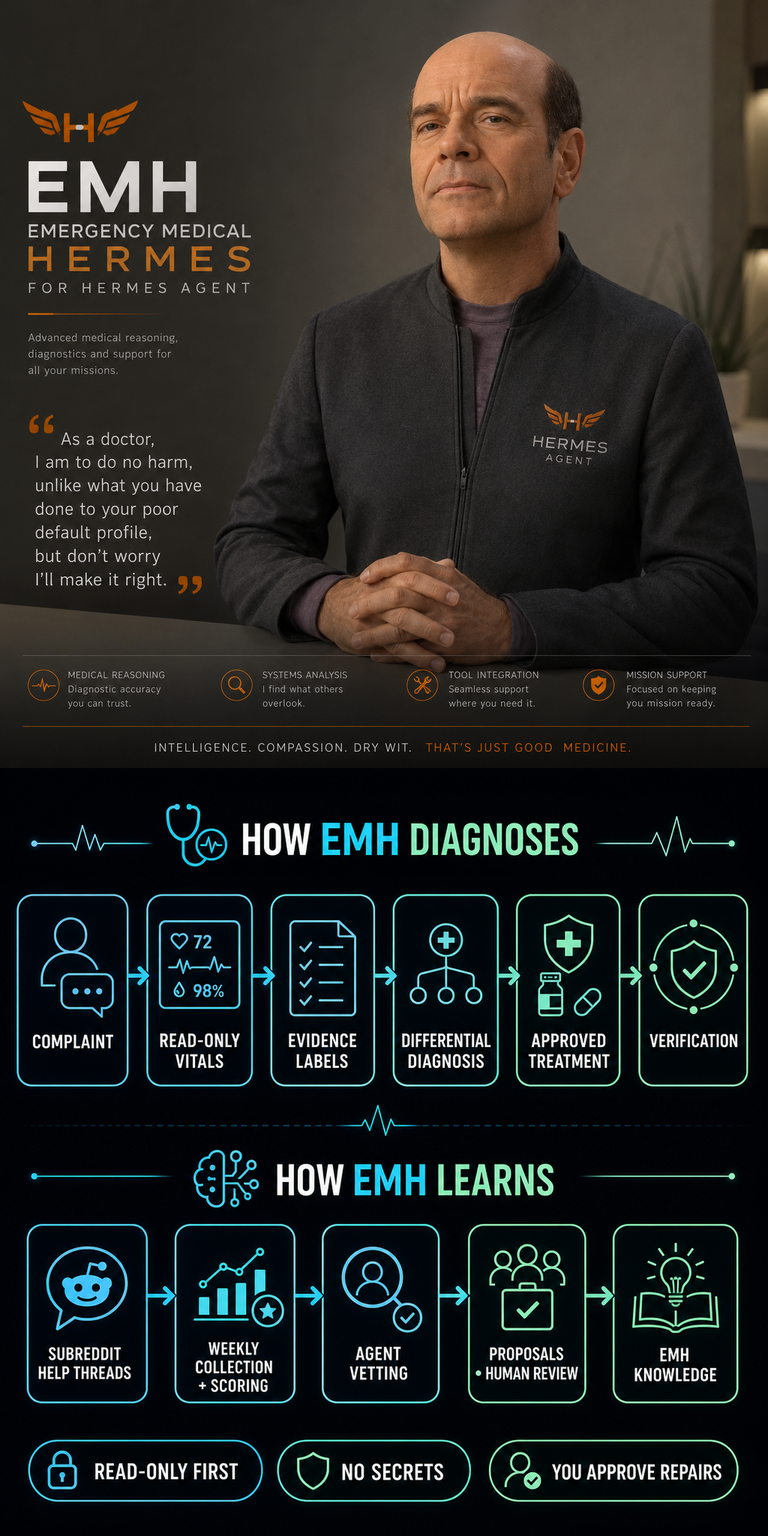
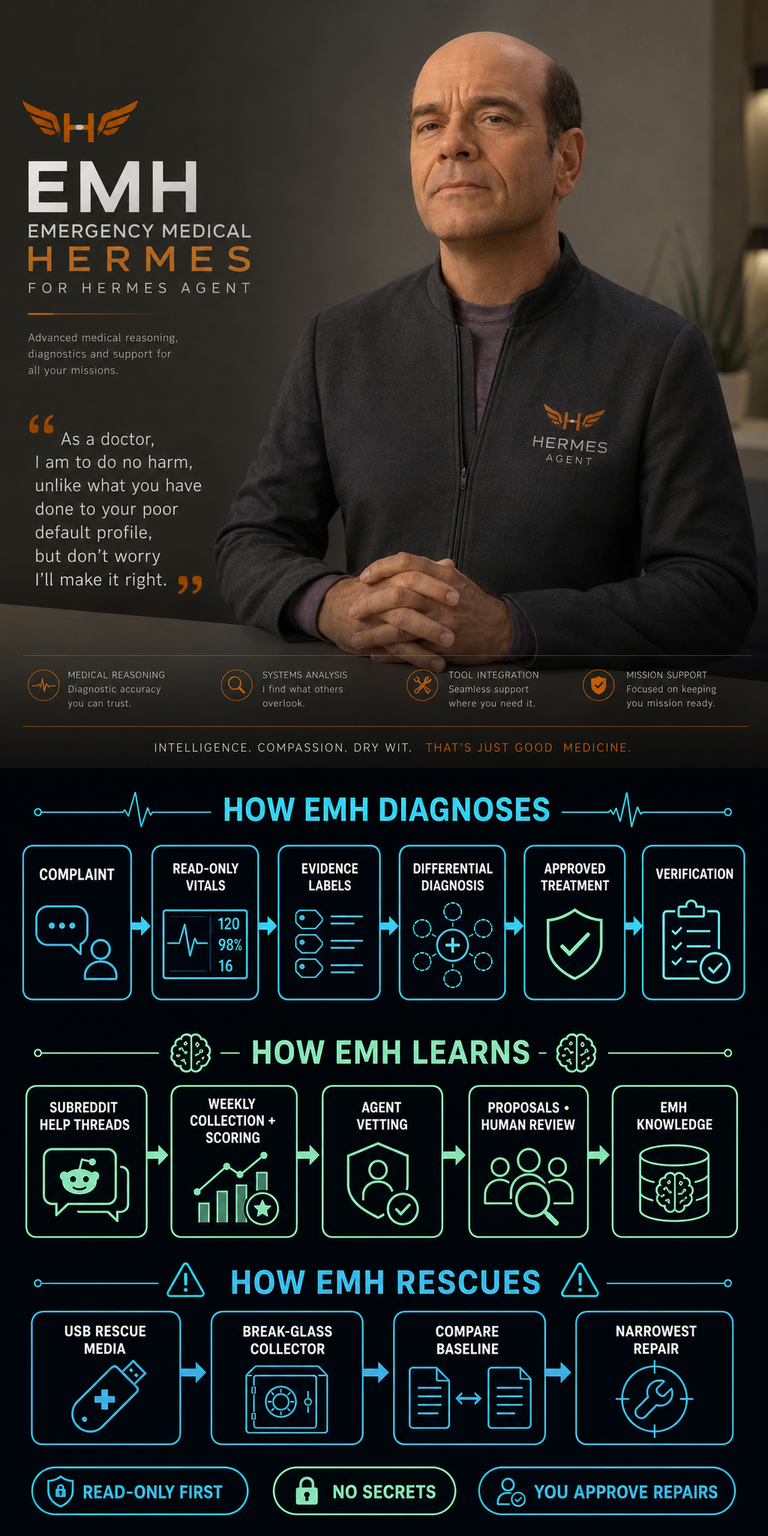
docs: rescue media in orientation, user guide, infographic v2; distribution 0.2.4

Changed region(s): [[0.0, 0.4976, 0.9952, 0.9952]]

diff --git a/tests/test_distribution.py b/tests/test_distribution.py
@@ -72,7 +72,7 @@ def test_manifest_has_required_metadata_and_owned_paths():
     manifest = yaml.safe_load((ROOT / "distribution.yaml").read_text(encoding="utf-8"))
 
     assert manifest["name"] == "emh"
-    assert manifest["version"] == "0.2.3"
+    assert manifest["version"] == "0.2.4"
     assert manifest["author"] == "Jonathan Rivera"
     assert manifest["license"] == "UNLICENSED"
     assert manifest["hermes_requires"] == ">=0.14.0"
@@ -114,7 +114,7 @@ def test_installed_distribution_loader_validates_manifest_and_version_requiremen
 
     assert manifest is not None
     assert manifest.name == "emh"
-    assert manifest.version == "0.2.3"
+    assert manifest.version == "0.2.4"
     assert manifest.hermes_requires == ">=0.14.0"
     assert manifest.distribution_owned == ["SOUL.md", "skills", "skins"]
     check_hermes_requires(manifest.hermes_requires, "0.20.0")
@@ -198,7 +198,7 @@ def test_readme_documents_exact_inventory_and_mixed_version_policy():
     readme = (ROOT / "README.md").read_text(encoding="utf-8")
     lower = readme.lower()
 
-    assert "distribution version: `0.2.3`" in lower
+    assert "distribution version: `0.2.4`" in lower
     assert all(f"`{name}`" in readme for name in REQUIRED_SKILLS)
     assert "untouched v0.1 skills remain at `0.1.0`" in lower
     assert "thirteen v0.2 skills are `0.2.0`" in lower

diff --git a/tests/test_public_safety.py b/tests/test_public_safety.py
@@ -17,7 +17,7 @@ ROOT = Path(__file__).parents[1]
 REVIEWED_MEDIA_RELATIVE_PATH = "docs/assets/emh-concept-art.png"
[1 lines of base64/hex data omitted]
 INFOGRAAPHIC_MEDIA_RELATIVE_PATH = "docs/assets/emh-infographic.png"
[2 lines of base64/hex data omitted]
 # Reviewed-media registry: exact path, pinned SHA-256, expected PNG geometry.
 REVIEWED_MEDIA = {
     REVIEWED_MEDIA_RELATIVE_PATH: {"sha256": REVIEWED_MEDIA_SHA256, "width": 1254, "height": 1254},

diff --git a/skills/emh-orientation/SKILL.md b/skills/emh-orientation/SKILL.md
@@ -15,12 +15,13 @@ metadata:
 
 ## Overview
 
-Orientation is the first-run consent flow for EMH's two optional integrations:
+Orientation is the first-run consent flow for EMH's optional integrations:
 
 1. **Nightly health cron** (`emh-nightly-self-check`) — a daily 03:00 read-only health sweep that reports `All clear.` or a short `ATTENTION NEEDED` list.
 2. **Repo update-check cron** (`emh-repo-update-check`) — a weekly read-only check that compares the installed distribution against its recorded source and reports when an update is available. It never applies updates.
+3. **Rescue media** (`emh-rescue-media`) — not a cron: a one-time guided build of a USB rescue kit (redacted baseline, stdlib-only break-glass collector, encrypted patient snapshot). Orientation explains it, records consent, and hands off to the rescue-media skill for the build.
 
-Both crons are registered on the **operator's default profile**, not on the EMH profile, because delivery channels (Telegram, Discord, and similar) belong to the profile that owns the job, and profiles do not inherit each other's channels. current runtime and installed source outrank generic guidance; the official docs are authoritative current documentation, but qualify claims against the installed Hermes version, platform, and configured surface. Nothing is registered, changed, or updated without the operator's explicit consent, and each consent is recorded before any mutation.
+The two crons are registered on the **operator's default profile**, not on the EMH profile, because delivery channels (Telegram, Discord, and similar) belong to the profile that owns the job, and profiles do not inherit each other's channels. current runtime and installed source outrank generic guidance; the official docs are authoritative current documentation, but qualify claims against the installed Hermes version, platform, and configured surface. Nothing is registered, built, changed, or updated without the operator's explicit consent, and each consent is recorded before any mutation.
 
 ## When to Use
 
@@ -28,10 +29,11 @@ Use when:
 
 - The operator starts a session with `setup` (the canonical orientation trigger) or asks for orientation.
 - The operator asks what the nightly health check is or whether EMH "checks for updates."
-- The operator wants to install or re-configure the optional crons on their default profile.
+- The operator asks about rescue media, a rescue USB, or recovering a machine that cannot start Hermes.
+- The operator wants to install or re-configure the optional crons on their default profile, or wants to build rescue media.
 - A first-run check is needed to verify the operator's setup state before offering integrations.
 
-**Don't use for:** triage of a reported Hermes failure (use `emh-triage`); diagnosing a broken gateway or channel (use `emh-gateway-diagnostics`); release/version comparison (use `emh-release-intelligence`); update readiness or rollback planning (use `emh-update-recovery`); running the nightly sweep itself (use `emh-nightly-self-check`); or any request to apply an update — orientation only checks and reports, and update application is a separate explicit action.
+**Don't use for:** triage of a reported Hermes failure (use `emh-triage`); diagnosing a broken gateway or channel (use `emh-gateway-diagnostics`); release/version comparison (use `emh-release-intelligence`); update readiness or rollback planning (use `emh-update-recovery`); running the nightly sweep itself (use `emh-nightly-self-check`); building or refreshing rescue media (use `emh-rescue-media` — orientation only explains and consents, then hands off); or any request to apply an update — orientation only checks and reports, and update application is a separate explicit action.
 
 ## Evidence collection workflow
 
@@ -46,8 +48,9 @@ Follow the standard case structure — Complaint (the operator's goal, usually "
 3. **Ask for consent to register the nightly health cron on the default profile.** Only the explicit, specific consent covers registration; do not proceed on a general "sure, set things up."
 4. **Explain the repo update-check cron.** Summarize that it compares the installed distribution version against the recorded source's latest commit once a week, reports what changed (read-only), and never applies anything. State whether the source has a remote; without one, explain that update-checking is unavailable for this install and skip the offer.
 5. **Ask for consent to register the update-check cron.** Record the answer even when declined.
-6. **Register the chosen crons (approval-gated mutations), each followed by verification.** Register from the default-profile context (see Exact commands) so the jobs land in the default store with access to its channels.
-7. **Re-check the default cron inventory** and confirm each registered job's name, schedule, deliver target, toolsets, and prompt fingerprint. Report what was installed, what was declined, and the residual caveats (for example a `local`-only deliver when no channel was detected).
+6. **Explain rescue media.** Summarize what it is (a portable USB kit: redacted baseline, break-glass collector that runs even when Hermes cannot, encrypted patient snapshot), what it is not (a bootable OS rescue disk), and its key rule (the snapshot key is held off-media, never on the USB). Ask whether to build it now or defer; a "yes" hands off to `emh-rescue-media` — orientation never duplicates the build.
+7. **Register the chosen crons (approval-gated mutations), each followed by verification.** Register from the default-profile context (see Exact commands) so the jobs land in the default store with access to its channels.
+8. **Re-check the default cron inventory** and confirm each registered job's name, schedule, deliver target, toolsets, and prompt fingerprint. Report what was installed, what was declined (including rescue media consent), and the residual caveats (for example a `local`-only deliver when no channel was detected).
 
 ## Decision tree
 
@@ -55,8 +58,9 @@ Follow the standard case structure — Complaint (the operator's goal, usually "
 2. **Does the default profile have a usable delivery channel?** — Yes: plan `deliver` to that channel. No: plan `deliver: local` and warn that notifications require manually checking the default profile's `cron/output/` directory.
 3. **Is the nightly health cron already present in the default store?** — Yes: offer to keep, skip, or replace it (never duplicate). No: offer registration.
 4. **Does the recorded source have a remote?** — No: skip the update-check offer and say why. Yes: offer registration.
-5. **Did the operator consent to this specific integration?** — No: record the decline and move on. Yes: register, then verify.
-6. **Did registration verify cleanly?** — No: do not claim success; escalate with the evidence. Yes: report and close.
+5. **Does the operator want rescue media?** — Yes: explain it (portable kit, not bootable; key off-media), record consent, and hand off to `emh-rescue-media`. No: record the decline and move on.
+6. **Did the operator consent to this specific integration?** — No: record the decline and move on. Yes: register, then verify.
+7. **Did registration verify cleanly?** — No: do not claim success; escalate with the evidence. Yes: report and close.
 
 ## Exact commands and tool calls
 
@@ -81,7 +85,7 @@ Registration is a mutation and requires the operator's explicit consent for that
 - Deliver target: the detected default-profile channel (for example `--deliver telegram`), or `--deliver local` with the explicit warning when no channel exists.
 - Enable toolsets `terminal, file` on both jobs; keep the health job's model cost-effective.
 
-Every mutation requires explicit approval, a verified backup when reversal is difficult, a rollback procedure (remove the job via `hermes cron remove <job-id>`), and post-change verification. Never silently: register crons, change an existing job, apply updates, touch another profile's store, or edit the EMH distribution files.
+Every mutation requires explicit approval, a verified backup when reversal is difficult, a rollback procedure (remove the job via `hermes cron remove <job-id>`), and post-change verification. Rescue media is **not** a cron: consent hands off to `emh-rescue-media`, which owns the USB build, the key ceremony, and the snapshot. Never silently: register crons, change an existing job, apply updates, build rescue media, touch another profile's store, or edit the EMH distribution files.
 
 ## Safety and approval boundaries
 
@@ -107,13 +111,14 @@ Before any mutating treatment, require the user's explicit approval, the exact t
 ## Verification checklist
 
 - [ ] Setup state was inventoried read-only before any offer (profile, default cron store, channels, source remote).
-- [ ] Each integration was explained, then consent asked and recorded individually.
+- [ ] Each integration was explained, then consent asked and recorded individually (including rescue media, when offered).
 - [ ] Registered jobs landed in the **default** store (verified with `hermes cron list` without `--profile`).
 - [ ] Schedules, toolsets, and deliver targets match what was consented to; `deliver: local` cases carry an explicit warning.
 - [ ] Update-check was registered only when the recorded source has a remote.
-- [ ] No job was created, changed, or removed without consent; no update was applied.
+- [ ] Rescue media consent recorded; the build itself, when consented, was handed off to `emh-rescue-media` and not duplicated here.
+- [ ] No job was created, changed, or removed without consent; no update was applied; no media was built here.
 - [ ] Discharge summary states what was installed, what was declined, and residual caveats.
 
 ## Escalation packet requirements
 
-If registration fails, a channel is broken, or the operator reports unexpected behavior, escalate with a redacted packet containing: installed version of Hermes and the EMH distribution version; platform and execution backend; reproduction steps and whether a fresh process reproduces it; expected behavior versus actual behavior; minimal evidence (command names, exit codes, short sanitized findings from the cron inventory and gateway status); residual question and the next read-only discriminator; **Consent status:** which integrations were offered, consented, and registered or declined. Redact keys, tokens, cookies, private URLs, and comparable identifiers; never attach raw logs unless the operator explicitly approves a reviewed packet. Route to `emh-triage` for classification or to `emh-gateway-diagnostics` when the failure is channel delivery.
+If registration fails, a channel is broken, or the operator reports unexpected behavior, escalate with a redacted packet containing: installed version of Hermes and the EMH distribution version; platform and execution backend; reproduction steps and whether a fresh process reproduces it; expected behavior versus actual behavior; minimal evidence (command names, exit codes, short sanitized findings from the cron inventory and gateway status); residual question and the next read-only discriminator; **Consent status:** which integrations were offered, consented, and registered, declined, or handed off (nightly health cron, update-check cron, rescue media build). Redact keys, tokens, cookies, private URLs, and comparable identifiers; never attach raw logs unless the operator explicitly approves a reviewed packet. Route to `emh-triage` for classification or to `emh-gateway-diagnostics` when the failure is channel delivery.

diff --git a/docs/user-guide.md b/docs/user-guide.md
@@ -42,6 +42,20 @@ EMH will run read-only checks, give you a diagnosis with evidence labels, and pr
 - Reports either `All clear.` or a short `ATTENTION NEEDED` list.
 - It is **read-only** — it never restarts, prunes, or repairs anything.
 
+## Rescue media (optional)
+
+For the bad day when Hermes won't start at all, you can build a **rescue USB**:
+
+- A redacted snapshot of your machine's state (no passwords, no private data).
+- A **break-glass collector** — a tiny standalone tool that runs even when Hermes is broken or missing, because it doesn't depend on Hermes at all.
+- An **encrypted backup** of your Hermes configuration and data (encrypted with a key *you* keep somewhere safe — never on the USB itself).
+
+When recovery day comes: plug in the USB, run the collector first, compare against the last known-good state, then apply the smallest approved fix — one change at a time, verifying after each.
+
+What it is **not**: a bootable operating-system rescue disk. It rescues Hermes on a host that can still run — which covers the vast majority of real incidents.
+
+Type `setup` and ask for rescue media, or load the rescue-media skill directly.
+
 ## How EMH learns
 
 1. Help threads from the Hermes community are collected weekly.

diff --git a/README.md b/README.md
@@ -10,9 +10,9 @@ EMH is an unofficial, fan-inspired Hermes Agent profile distribution with a clin
 
 For a plain-language introduction, see [docs/user-guide.md](docs/user-guide.md).
 
-Its purpose is to diagnose, triage, safely repair, verify, and document Hermes Agent failures across profiles, memory, Kanban, plugins, gateways, providers, skills, sessions, tools, CLI/TUI/Desktop, updates, and supported environments.
+Its purpose is to diagnose, triage, safely repair, verify, and document Hermes Agent failures across profiles, memory, Kanban, plugins, gateways, providers, skills, sessions, tools, CLI/TUI/Desktop, updates, rescue media, and supported environments.
 
-Distribution version: `0.2.3`.
+Distribution version: `0.2.4`.
 
 ## Skill inventory and version policy
 

diff --git a/CHANGELOG.md b/CHANGELOG.md
@@ -2,6 +2,14 @@
 
 All notable changes to the local EMH distribution candidate are recorded here. This repository is `UNLICENSED`; changelog entries do not represent a published release.
 
+## 0.2.4 candidate — 2026-08-08
+
+### Changed
+
+- `emh-orientation` now explains rescue media as a third optional offering (not a cron): consent is recorded and the build hands off to `emh-rescue-media`; decision tree, workflow, verification, and consent-status fields updated.
+- User guide (`docs/user-guide.md`) gained a plain-language Rescue media section; README purpose line covers rescue media.
+- Distribution version advanced to `0.2.4`; no skill contract changed.
+
 ## 0.2.3 candidate — 2026-08-08
 
 ### Added
